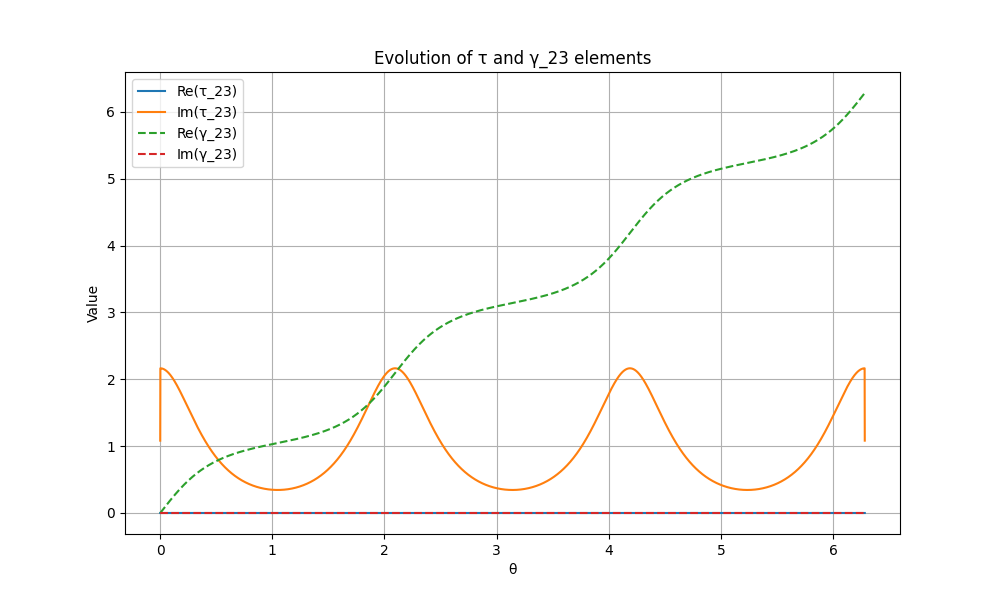
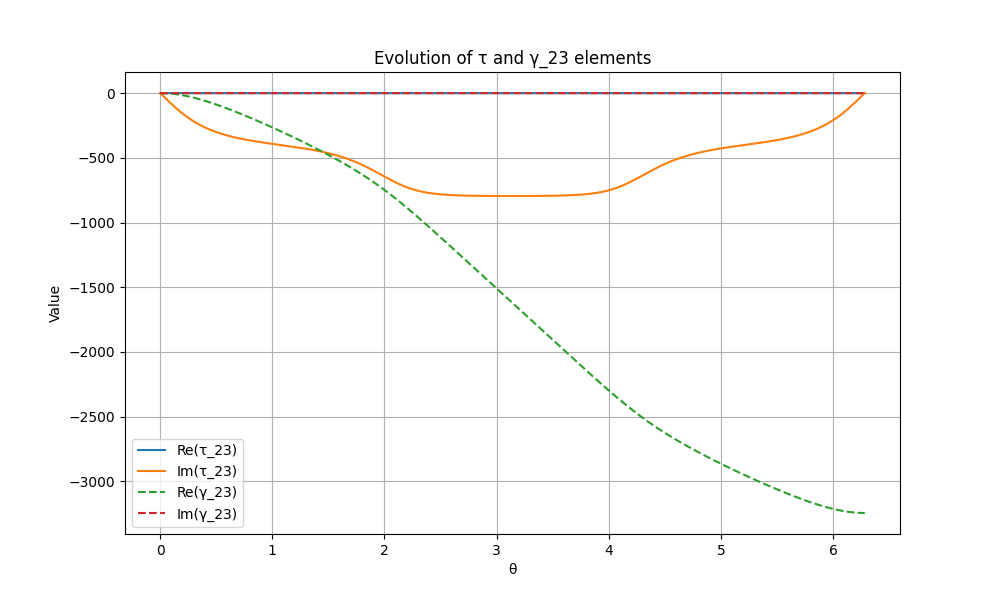
fix: update eigenvector indexing and use imaginary part of tau matrices in output

diff --git a/better_or_not_better_bph.py b/better_or_not_better_bph.py
@@ -499,12 +499,21 @@ def compute_berry_phase(eigvectors_all, theta_vals, continuity_check=False):
     eigvectors_all = eigvectors_all / np.linalg.norm(eigvectors_all, axis=1, keepdims=True)
 
     for i in range(N):
-        i_prev = (i - 1) % N
+        i_prev = (i - 1)
         i_next = (i + 1) % N
 
         for n in range(M):
             for m in range(M):
-                psi_prev = eigvectors_all[i_prev, :, n]
+                if i == 0:
+                    i_prev = N - 1
+                else:
+                    i_prev = i - 1
+                if i == N - 1:
+                    i_next = 0
+                else:
+                    i_next = len(eigvectors_all) - 1
+                
+                psi_prev = eigvectors_all[i_prev, :, n] # (THETA, COMPONENT, STATE)
                 psi_next = eigvectors_all[i_next, :, n]
                 psi_curr = eigvectors_all[i, :, m]
 
@@ -594,7 +603,7 @@ def main(d, aVx, aVa, c_const, x_shift, theta_min, theta_max, omega, num_points,
         for i in range(gamma.shape[0]):
             for j in range(gamma.shape[1]):
                 f.write(f"Gamma[{i+1},{j+1}]: {gamma[i,j,-1]}\n")
-                f.write(f"Tau[{i+1},{j+1}]: {tau[i,j,-1]}\n")
+                f.write(f"Tau[{i+1},{j+1}]: {np.imag(tau[i,j,-1])}\n")
             f.write("\n")
         f.write("===========================================\n")
         f.write("\n")
@@ -602,7 +611,7 @@ def main(d, aVx, aVa, c_const, x_shift, theta_min, theta_max, omega, num_points,
         f.write("\n\n")
         f.write("===========================================\n")
         f.write("\n")
-        f.write(format_matrix(tau[:,:,-1], "The last Tau Matrix", output_dir))
+        f.write(format_matrix(np.imag(tau[:,:,-1]), "The last Tau Matrix", output_dir))
         f.write("\n\n")
         f.write("===========================================\n")
         f.write("===========================================\n")
@@ -611,15 +620,15 @@ def main(d, aVx, aVa, c_const, x_shift, theta_min, theta_max, omega, num_points,
         f.write("\n\n")
         f.write("===========================================\n")
         f.write("\n")
-        f.write(format_matrix(tau[:,:,-2], "The one before last Tau Matrix", output_dir))
+        f.write(format_matrix(np.imag(tau[:,:,-2]), "The one before last Tau Matrix", output_dir))
         f.write("\n\n")
         f.write("===========================================\n")
 
     #print the gamma matrix
     for i in range(gamma.shape[0]):
         for j in range(gamma.shape[1]):
-            print(f"Gamma[{i+1},{j+1}]: {gamma[i,j,-2]}")
-            print(f"Tau[{i+1},{j+1}]: {tau[i,j,-2]}")
+            print(f"Gamma[{i+1},{j+1}]: {gamma[i,j,-1]}")
+            print(f"Tau[{i+1},{j+1}]: {np.imag(tau[i,j,-1])}")
     
 
     #save the tau and gamma matrices
